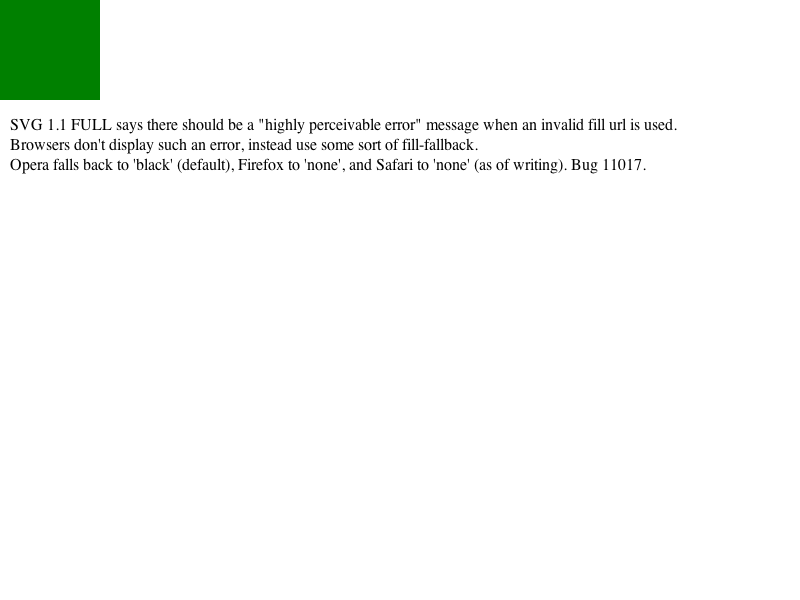
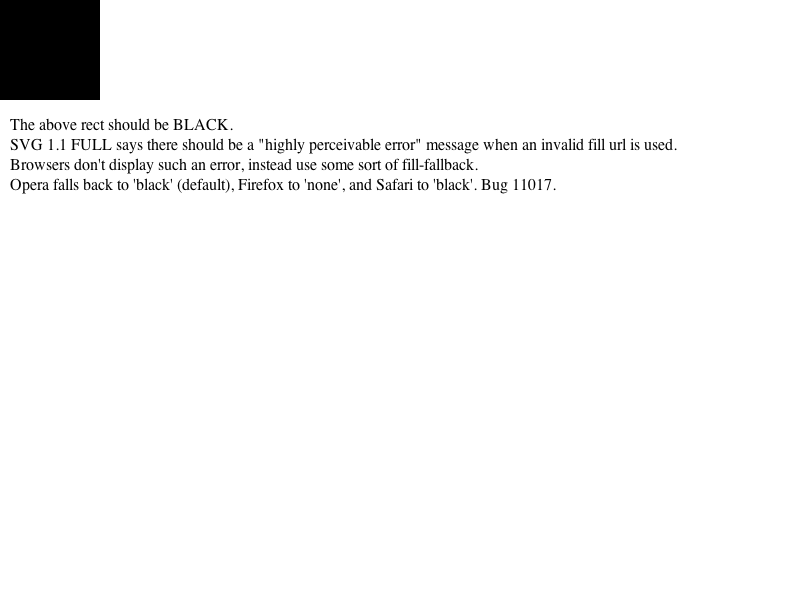
2006-09-27  Eric Seidel  <eric@eseidel.com>
Reviewed by darin.

        Change our invalid-fill error behavior to match Opera (and soon Firefox)
        http://bugzilla.opendarwin.org/show_bug.cgi?id=11017

        * ksvg2/misc/KCanvasRenderingStyle.cpp:
        (WebCore::KSVGPainterFactory::isFilled):
        (WebCore::KSVGPainterFactory::fillPaintServer):
        (WebCore::KSVGPainterFactory::isStroked):
        (WebCore::KSVGPainterFactory::strokePaintServer):

git-svn-id: https://svn.webkit.org/repository/webkit/trunk@16599 268f45cc-cd09-0410-ab3c-d52691b4dbfc

Changed region(s): [[0.0, 0.0, 0.8438, 0.33]]

diff --git a/WebCore/ksvg2/misc/KCanvasRenderingStyle.cpp b/WebCore/ksvg2/misc/KCanvasRenderingStyle.cpp
@@ -51,63 +51,63 @@ static KRenderingPaintServerSolid* sharedSolidPaintServer()
     return _sharedSolidPaintServer;
 }
 
-bool KSVGPainterFactory::isFilled(const RenderStyle *style)
+bool KSVGPainterFactory::isFilled(const RenderStyle* style)
 {
-    SVGPaint *fill = style->svgStyle()->fillPaint();
+    SVGPaint* fill = style->svgStyle()->fillPaint();
     if (fill && fill->paintType() == SVGPaint::SVG_PAINTTYPE_NONE)
         return false;
     return true;
 }
 
-KRenderingPaintServer *KSVGPainterFactory::fillPaintServer(const RenderStyle* style, const RenderObject* item)
+KRenderingPaintServer* KSVGPainterFactory::fillPaintServer(const RenderStyle* style, const RenderObject* item)
 {
     if (!isFilled(style))
         return 0;
 
-    SVGPaint *fill = style->svgStyle()->fillPaint();
+    SVGPaint* fill = style->svgStyle()->fillPaint();
 
-    KRenderingPaintServer *fillPaintServer;
-    if (!fill) {
-        // initial value (black)
-        fillPaintServer = sharedSolidPaintServer();
-        static_cast<KRenderingPaintServerSolid *>(fillPaintServer)->setColor(Color::black);
-    } else if (fill->paintType() == SVGPaint::SVG_PAINTTYPE_URI) {
-        String id(fill->uri());
-        fillPaintServer = getPaintServerById(item->document(), AtomicString(id.substring(1)));
+    KRenderingPaintServer* fillPaintServer = 0;
+    if (fill && fill->paintType() == SVGPaint::SVG_PAINTTYPE_URI) {
+        fillPaintServer = getPaintServerById(item->document(), AtomicString(fill->uri().substring(1)));
         if (item && fillPaintServer && item->isRenderPath())
             fillPaintServer->addClient(static_cast<const RenderPath*>(item));
-    } else {
+    } else if (fill) {
         fillPaintServer = sharedSolidPaintServer();
-        KRenderingPaintServerSolid *fillPaintServerSolid = static_cast<KRenderingPaintServerSolid *>(fillPaintServer);
+        KRenderingPaintServerSolid* fillPaintServerSolid = static_cast<KRenderingPaintServerSolid*>(fillPaintServer);
         if (fill->paintType() == SVGPaint::SVG_PAINTTYPE_CURRENTCOLOR)
             fillPaintServerSolid->setColor(style->color());
         else
             fillPaintServerSolid->setColor(fill->color());
+    }
+    
+    if (!fillPaintServer) {
+        // default value (black), see bug 11017
+        fillPaintServer = sharedSolidPaintServer();
+        static_cast<KRenderingPaintServerSolid *>(fillPaintServer)->setColor(Color::black);
     }
 
     return fillPaintServer;
 }
 
 
-bool KSVGPainterFactory::isStroked(const RenderStyle *style)
+bool KSVGPainterFactory::isStroked(const RenderStyle* style)
 {
-    SVGPaint *stroke = style->svgStyle()->strokePaint();
+    SVGPaint* stroke = style->svgStyle()->strokePaint();
     if (!stroke || stroke->paintType() == SVGPaint::SVG_PAINTTYPE_NONE)
         return false;
     return true;
 }
 
-KRenderingPaintServer *KSVGPainterFactory::strokePaintServer(const RenderStyle* style, const RenderObject* item)
+KRenderingPaintServer* KSVGPainterFactory::strokePaintServer(const RenderStyle* style, const RenderObject* item)
 {
     if (!isStroked(style))
         return 0;
 
-    SVGPaint *stroke = style->svgStyle()->strokePaint();
+    SVGPaint* stroke = style->svgStyle()->strokePaint();
 
-    KRenderingPaintServer *strokePaintServer;
+    KRenderingPaintServer* strokePaintServer = 0;
     if (stroke && stroke->paintType() == SVGPaint::SVG_PAINTTYPE_URI) {
-        String id(stroke->uri());
-        strokePaintServer = getPaintServerById(item->document(), AtomicString(id.substring(1)));
+        strokePaintServer = getPaintServerById(item->document(), AtomicString(stroke->uri().substring(1)));
         if(item && strokePaintServer && item->isRenderPath())
             strokePaintServer->addClient(static_cast<const RenderPath*>(item));
     } else {
